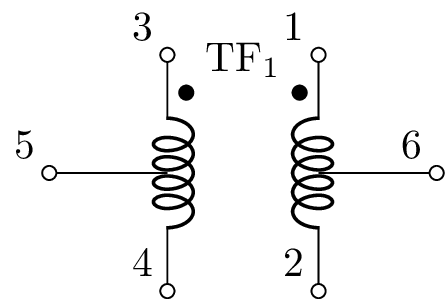
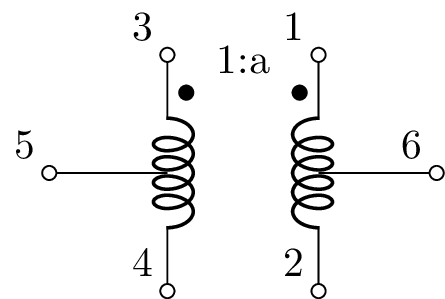
Add core attribute for transformers

Changed region(s): [[0.4382, 0.1204, 0.6135, 0.2709]]

diff --git a/lcapy/schemcpts.py b/lcapy/schemcpts.py
@@ -572,12 +572,26 @@ class TF1(FixedCpt):
             s += r'  \draw[<->] ([shift=(45:%.2f)]%s) arc(45:135:%.2f);''\n' % (
                 width / 2, link_pos, width / 2)
 
+        core = ''
         if self.classname in ('TFcore', 'TFtapcore'):
-            # Draw core
+            core = 'two'
+            warn('Class ' + self.classname + ' is deprecated.  Use core attribute')
+
+        if 'core' in self.opts:
+            core = self.opts['core']
+
+        if core in ('two', True):
+            # Draw core with two lines
             q = self.tf(centre, ((-0.05, -0.2), (-0.05, 0.2),
                                  (0.05, -0.2), (0.05, 0.2)))
             s += self.draw_path(q[0:2], style='thick')
             s += self.draw_path(q[2:4], style='thick')
+        elif core == 'one':
+            # Draw core with one line
+            q = self.tf(centre, ((0, -0.2), (0, 0.2)))
+            s += self.draw_path(q[0:2], style='thick')
+        elif core not in ('', False):
+            raise ValueError('Invalid core attribute value ' + core)
 
         return s
 
@@ -1381,6 +1395,8 @@ defcpt('SWpush', 'SW', 'Pushbutton switch', 'push button')
 defcpt('SWspdt', SPDT, 'SPDT switch', 'spdt')
 
 defcpt('TF', Transformer, 'Transformer', 'ideal transformer')
+defcpt('TFtap', Transformer, 'Transformer', 'ideal transformer with taps')
+# The following two should be deprecated; instead use core attribute
 defcpt('TFcore', Transformer, 'Transformer with core', 'transformer core')
 defcpt('TFtapcore', TFtap, 'Tapped transformer with core', 'transformer core')
 defcpt('TP', TwoPort, 'Two port', '')

diff --git a/lcapy/labelmaker.py b/lcapy/labelmaker.py
@@ -67,7 +67,7 @@ class LabelMaker:
                 value_label = self._format_expr(expr)
             elif cpt.classname in ('Vs', 'Is'):
                 value_label = self._format_expr(expr)
-            elif cpt.classname == 'TF':
+            elif cpt.classname in ('TF', 'TFtap'):
                 expr = sym.sympify(expr)
                 if expr.is_Pow and expr.args[1] == -1:
                     value_label = '%s:1' % (1 / expr)

diff --git a/doc/schematics.rst b/doc/schematics.rst
@@ -734,22 +734,24 @@ Transformers
 .. image:: examples/schematics/TF4.png
    :width: 1.4cm
 
-.. literalinclude:: examples/schematics/TFcore1.sch
-
-.. image:: examples/schematics/TFcore1.png
-   :width: 1.4cm
-
 .. literalinclude:: examples/schematics/TFtap1.sch
 
 .. image:: examples/schematics/TFtap1.png
    :width: 3cm
 
+The dots can be positioned with the dots attribute.  This can be `++`, `+-`, `-+`, `--`, or ''.  The first symbol specifies the primary dot position; the second symbol specifies the secondary dot position.
+
+Cores are drawn with the `core` attribute.  This can be `True`, 'one', or 'two'.  'one' draws one core line; 'two' draws two core lines.
+
+.. literalinclude:: examples/schematics/TFcore1.sch
+
+.. image:: examples/schematics/TFcore1.png
+   :width: 1.4cm
+
 .. literalinclude:: examples/schematics/TFtapcore1.sch
 
 .. image:: examples/schematics/TFtapcore1.png
    :width: 3cm
-
-The dots can be positioned with the dots attribute.  This can be '++', '+-', '-+', '--', or ''.  The first symbol specifies the primary dot position; the second symbol specifies the secondary dot position.
 
 
 Transistors

diff --git a/doc/netlists.rst b/doc/netlists.rst
@@ -753,10 +753,10 @@ The methods are:
 
 - `Zparams(N1p, N1m, N2p, N2m)` Returns the two-port Z-parameters matrix.  See :ref:`Z-parameters` and `twoport()`.
 
-- `ladder(N1p, N1m, N2p, N2m)` Returns an s-domain two-port model, for
+- `ladder(N1p, N1m, N2p, N2m)` Returns an s-domain `Ladder` two-port model, for
   circuits with a ladder toplogy, defined by nodes `N1p`, `N1m`,
   `N2p`, and `N2m`, where `V1 = V[N1p] - V[N1m]`, and `V2 = V[N2p] -
-  V[N2m]`.  Note, `N1m` has to be the same as `N2m`.
+  V[N2m]`.  Note, `N1m` has to be the same as `N2m`.  `None` is returned if a ladder network is not found.
 
 The `ladder()` method is useful for large circuits with an unbalanced ladder topology since it does not compute all the node voltages of the circuit and so is much faster than the other methods.  For example, consider the ladder network:
 
